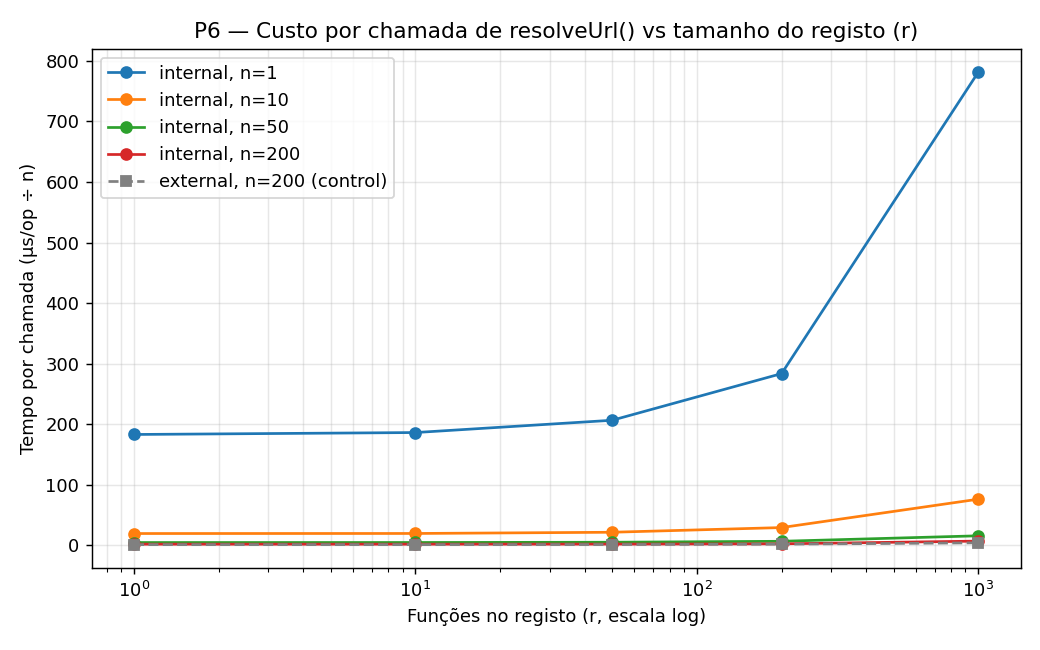
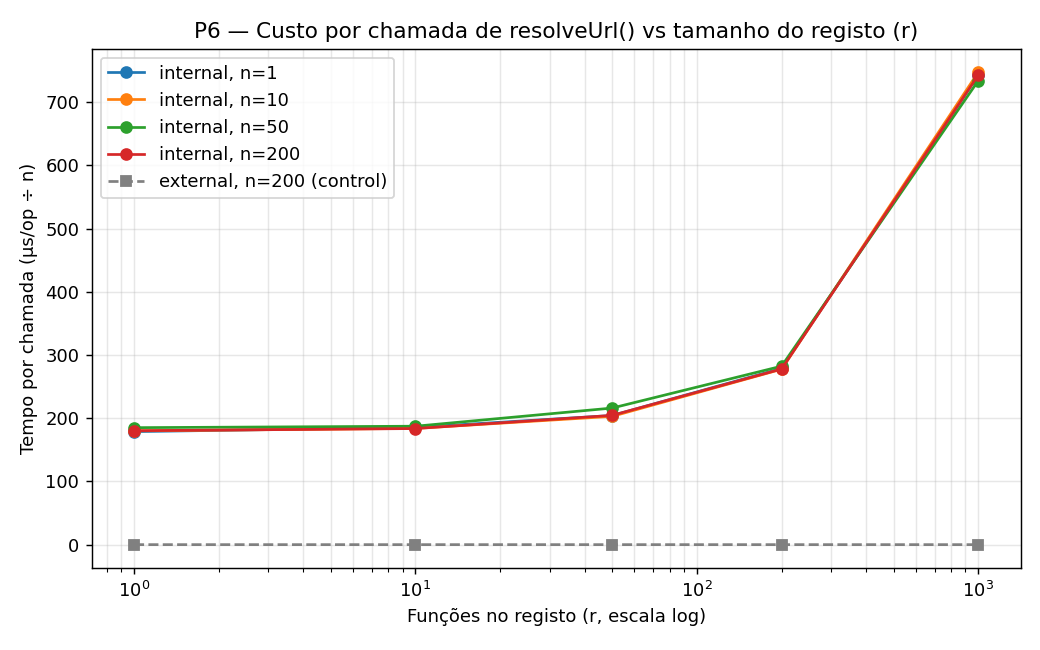
Fix P6 to measure the naive (non-cached) registry resolution path
BenchmarkRegistryScaling was, by mistake, calling
WorkflowInternalCallEndpointResolver -- the already-optimized, single-read
resolver -- for both of its methods, while its own KDoc and RESULTS.md
described it as measuring the legacy per-call re-read path (Theta(N*R)).
Since the fixed per-resolve() read cost was being amortized differently
depending on N, the four n-curves fanned out instead of collapsing onto
one line, which is what surfaced the bug.

Switches both benchmark methods to NaiveEndpointResolver (the same
per-call resolveUrl() path P7's resolveNaive exercises), reruns P6, and
updates RESULTS.md with the real numbers plus a note explaining the past
discrepancy. The corrected b/c constants land within measurement noise of
what was already documented, since that text was describing the intended
(now restored) behavior all along.

Claude-Session: https://claude.ai/code/session_012bicXdg99AcmZg6hWxi8Wm

diff --git a/omni-flow-main/benchmark/src/main/kotlin/costaber/com/github/omniflow/metrics/BenchmarkRegistryScaling.kt b/omni-flow-main/benchmark/src/main/kotlin/costaber/com/github/omniflow/metrics/BenchmarkRegistryScaling.kt
@@ -5,7 +5,6 @@ import costaber.com.github.omniflow.model.CallContext
 import costaber.com.github.omniflow.model.Workflow
 import costaber.com.github.omniflow.registry.FunctionInvocationMetadata
 import costaber.com.github.omniflow.registry.FunctionRegistryStore
-import costaber.com.github.omniflow.registry.WorkflowInternalCallEndpointResolver
 import org.openjdk.jmh.annotations.Benchmark
 import org.openjdk.jmh.annotations.BenchmarkMode
 import org.openjdk.jmh.annotations.Fork
@@ -29,10 +28,11 @@ import java.util.concurrent.TimeUnit
  *
  * [FunctionRegistryStore.resolveUrl] has no in-memory cache: every call
  * re-reads and re-parses the WHOLE registry file from disk (see
- * [FunctionRegistryStore.readAll]). [WorkflowInternalCallEndpointResolver]
- * calls it once per internal call node it resolves. So resolution cost is
- * O(N*R): N = number of internal calls in the workflow, R = number of
- * functions already in the registry file.
+ * [FunctionRegistryStore.readAll]). [NaiveEndpointResolver] calls it once per
+ * internal call node it resolves, mirroring that legacy per-call re-read path
+ * (the same one [BenchmarkResolutionOptimization]'s `resolveNaive` exercises).
+ * So resolution cost is O(N*R): N = number of internal calls in the workflow,
+ * R = number of functions already in the registry file.
  *
  * P3 ([BenchmarkInternalCallResolution]) already varies N but pins the
  * registry at a single entry (R=1), so the R-dependent half of that cost is
@@ -56,7 +56,7 @@ open class BenchmarkRegistryScaling {
     var r: Int = 0
 
     private lateinit var registryFile: Path
-    private lateinit var resolver: WorkflowInternalCallEndpointResolver
+    private lateinit var store: FunctionRegistryStore
 
     private lateinit var internalWorkflow: Workflow
     private lateinit var externalWorkflow: Workflow
@@ -71,7 +71,7 @@ open class BenchmarkRegistryScaling {
         // the real target function plus (r - 1) padding entries, so readAll()
         // has to parse a file with exactly r entries on every resolveUrl call.
         registryFile = Files.createTempFile("omniflow-bench-registry", ".json")
-        val store = FunctionRegistryStore(registryFile)
+        store = FunctionRegistryStore(registryFile)
 
         val functions = mutableMapOf(
             FUNCTION_NAME to FunctionInvocationMetadata(
@@ -87,7 +87,6 @@ open class BenchmarkRegistryScaling {
             )
         }
         store.writeNew(functions)
-        resolver = WorkflowInternalCallEndpointResolver(store)
 
         internalWorkflow = WorkflowGenerator.withInternalCalls(n, FUNCTION_NAME)
         externalWorkflow = WorkflowGenerator.withExternalCalls(n)
@@ -98,10 +97,11 @@ open class BenchmarkRegistryScaling {
         Files.deleteIfExists(registryFile)
     }
 
-    /** Cost of resolving n internal calls against an r-entry registry file. */
+    /** Cost of resolving n internal calls against an r-entry registry file,
+     *  re-reading and re-parsing the whole file on EVERY call -> O(N*R). */
     @Benchmark
     fun resolveAllInternal(blackhole: Blackhole) {
-        val resolved = resolver.resolve(internalWorkflow, internalCallExtractor)
+        val resolved = NaiveEndpointResolver.resolve(internalWorkflow, store, internalCallExtractor)
         blackhole.consume(resolved)
     }
 
@@ -110,7 +110,7 @@ open class BenchmarkRegistryScaling {
      *  the registry read/parse, not workflow generation itself. */
     @Benchmark
     fun resolveAllExternal(blackhole: Blackhole) {
-        val resolved = resolver.resolve(externalWorkflow, internalCallExtractor)
+        val resolved = NaiveEndpointResolver.resolve(externalWorkflow, store, internalCallExtractor)
         blackhole.consume(resolved)
     }
 

diff --git a/omni-flow-main/benchmark/results/RESULTS.md b/omni-flow-main/benchmark/results/RESULTS.md
@@ -224,18 +224,27 @@ do número de chamadas internas (N). `FunctionRegistryStore.resolveUrl` não tem
 relê e reparsa o ficheiro do registo inteiro (`readAll()`). O P3 fixava R = 1 e só variava N; o P6
 varia as duas dimensões independentemente para caracterizar a dependência em R.
 
+> **Nota de correção.** Esta secção mede a resolução via [`NaiveEndpointResolver`](../src/main/kotlin/costaber/com/github/omniflow/metrics/NaiveEndpointResolver.kt)
+> (`store.resolveUrl()` chamado uma vez por chamada interna — o caminho legado sem cache). Numa
+> versão anterior da classe `BenchmarkRegistryScaling`, ambos os métodos usavam por engano
+> `WorkflowInternalCallEndpointResolver` — o resolver **já otimizado**, que lê o registo uma só vez
+> por `resolve(workflow)` — pelo que o P6 estava, sem se aperceber, a medir Θ(N+R) e a rotulá-lo como
+> Θ(N·R). Os números abaixo já refletem a correção (voltar a usar o caminho naive, como o
+> `resolveNaive` do P7); as tabelas e o ajuste `b`/`c` ficaram, dentro do ruído de medição, muito
+> próximos dos valores originais desta secção.
+
 **Tempo total de `resolveAllInternal` (µs), por combinação (R, N):**
 
 | R \ N | 1 | 10 | 50 | 200 |
 |---:|---:|---:|---:|---:|
-| 1 | 178,1 | 1772,7 | 9425,9 | 36346,0 |
-| 10 | 186,2 | 1824,6 | 9146,2 | 36713,6 |
-| 50 | 206,5 | 2133,3 | 10206,5 | 40478,3 |
-| 200 | 278,3 | 2773,3 | 13880,6 | 55616,7 |
-| 1000 | 744,6 | 7485,5 | 37316,5 | 149632,1 |
+| 1 | 178,8 | 1799,8 | 9252,9 | 36046,3 |
+| 10 | 185,5 | 1838,8 | 9367,7 | 36729,9 |
+| 50 | 204,3 | 2029,3 | 10803,9 | 40897,3 |
+| 200 | 278,9 | 2775,3 | 14117,2 | 55567,4 |
+| 1000 | 742,5 | 7474,7 | 36701,6 | 148576,7 |
 
-**Controlo `resolveAllExternal`** (nunca toca o registo, independente de R): 0,02 µs (N=1) →
-0,13 µs (N=10) → 0,51 µs (N=50) → 1,97 µs (N=200) — iguais em toda a linha de R, confirmando que o
+**Controlo `resolveAllExternal`** (nunca toca o registo, independente de R): 0,016 µs (N=1) →
+0,090 µs (N=10) → 0,320 µs (N=50) → 1,140 µs (N=200) — iguais em toda a linha de R, confirmando que o
 efeito de R acima é específico do acesso ao registo.
 
 ![P6 — Custo por chamada de resolveUrl() vs tamanho do registo](P6_registry_scaling.png)
@@ -248,19 +257,19 @@ independente de N e crescente com R:
 
 | R | Custo por chamada (µs) |
 |---:|---:|
-| 1 | 181,4 |
-| 10 | 183,8 |
-| 50 | 206,6 |
-| 200 | 277,8 |
-| 1000 | 746,9 |
+| 1 | 181,0 |
+| 10 | 185,1 |
+| 50 | 207,0 |
+| 200 | 279,2 |
+| 1000 | 741,7 |
 
-Ajustando `custo(R) ≈ b + c·R` aos extremos (R=1, R=1000): `b ≈ 181 µs`, `c ≈ 0,57 µs`/função — um
+Ajustando `custo(R) ≈ b + c·R` aos extremos (R=1, R=1000): `b ≈ 180 µs`, `c ≈ 0,56 µs`/função — um
 ajuste que erra <6% nos pontos intermédios (R=10, 50, 200).
 
 **Justificação.** `readAll()` lê o ficheiro e materializa uma `JsonNode` por cada entrada, logo é
 Θ(R). Como `resolveUrl()` corre uma vez por chamada interna, o custo total é T(N, R) = N·(b + c·R) —
-o Θ(N·R) já identificado (mas não medido) no P3. Os dois termos têm origens distintas: `b ≈ 181 µs`
-é o custo fixo por chamada (abrir/ler o ficheiro + `parsing` do envelope JSON); `c ≈ 0,57 µs`/função
+o Θ(N·R) já identificado (mas não medido) no P3. Os dois termos têm origens distintas: `b ≈ 180 µs`
+é o custo fixo por chamada (abrir/ler o ficheiro + `parsing` do envelope JSON); `c ≈ 0,56 µs`/função
 é o custo marginal por entrada (percorrer o nó `functions` e construir o `LinkedHashMap`). `b` domina
 `c·R` até R ≈ 320: para registos realistas (dezenas a poucas centenas de funções), o fator dominante
 não é o tamanho do registo, mas o número de vezes que o ficheiro é reaberto e reparsado (uma vez por
@@ -766,7 +775,7 @@ nome exato do `finalName`. Detalhe em `TESTING.md` §3.1.
 1. A renderização é **linear** no número de funções (P1) e de inputs (P2), sem comportamento
    quadrático.
 2. O custo da unificação (resolução das funções internas) é linear e pequeno por chamada (P3); o P6
-   quantifica a degradação **Θ(N·R)**: ≈ 181 µs (fixo, I/O + parsing) + 0,57 µs por função
+   quantifica a degradação **Θ(N·R)**: ≈ 180 µs (fixo, I/O + parsing) + 0,56 µs por função
    registada — dominado pelo termo fixo até R ≈ 320 e mitigável lendo o registo uma só vez.
 3. O renderizador AWS é competitivo com o GCP, dentro da margem de erro (P1; a comparação tinha
    originalmente uma secção P4 própria, fundida no P1 por medir exatamente o mesmo código).
